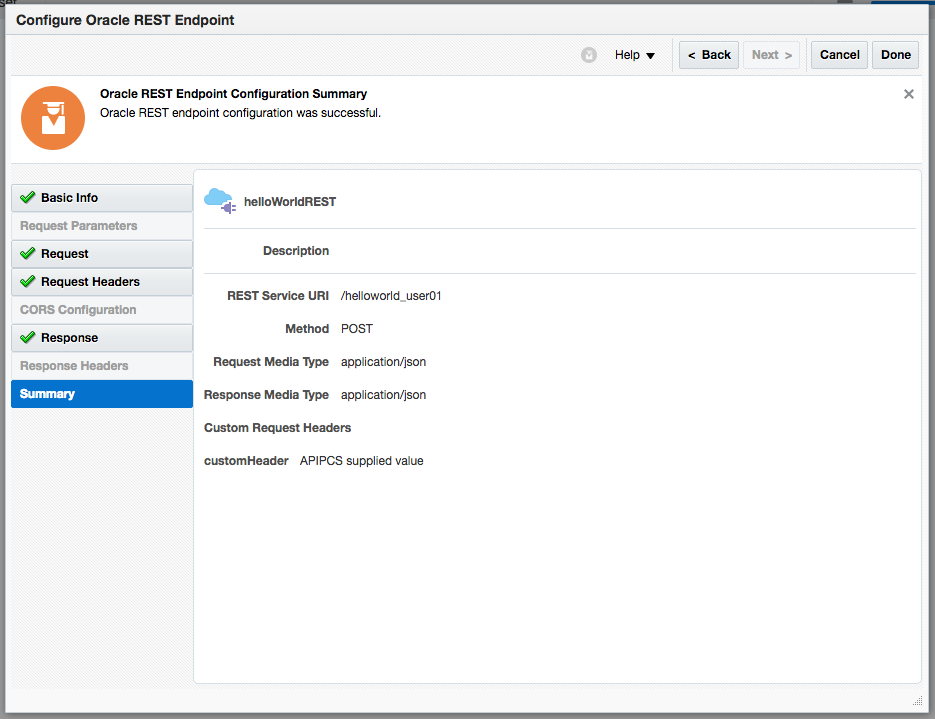
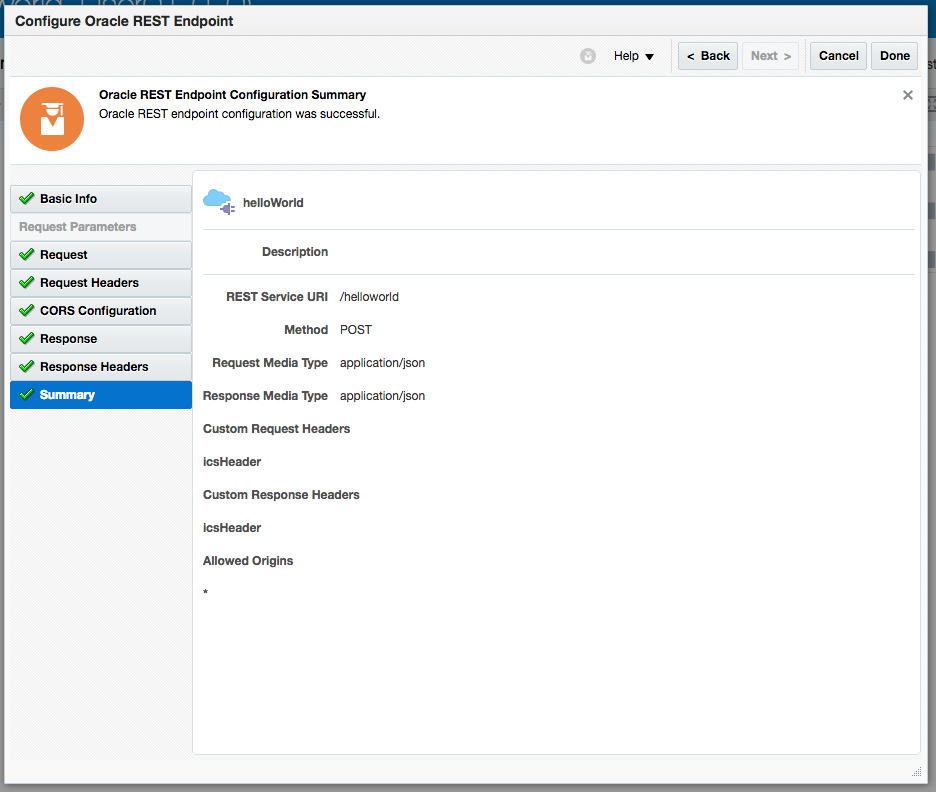
Completed lab 100

Changed region(s): [[0.0, 0.0, 1.0, 1.0], [0.2171, 0.7038, 0.3102, 0.7344]]

diff --git a/workshops/ttc-apipcs-ics-workshop/ics100.md b/workshops/ttc-apipcs-ics-workshop/ics100.md
@@ -208,7 +208,7 @@ As you can see that there is not much you can configure, apart from the owner's 
 - **Click** on `Next >` to move to the `Request Header` step 
 
 - On the `Request Header` we are going to add a `customHeader` which we are going to populate from APIPCS.
-    - Add a header, called `customHeader` and give it a description `APIPCS supplied value`
+    - Add a header, called `icsHeader` and give it a description `APIPCS supplied value`
 
     ![](images/100/image020.png)
 
@@ -236,6 +236,12 @@ As you can see that there is not much you can configure, apart from the owner's 
 
 - **Click** `OK` to return to `Configure the Response Payload` wizard
 
+- **Click** on `Next >` to move to `Response Headers Configuration` Wizard
+
+- Add a header for our response `icsHeader`
+
+    ![](images/100/image025.png)
+
 - **Click** on `Next >` to move to the `Summary` page
 
     ![](images/100/image023.png)
@@ -249,3 +255,88 @@ As you can see that there is not much you can configure, apart from the owner's 
 ### **1.3.4** Configuring Mapping
 
 ---
+
+The next step is to configure the mapping, ie. matching the input to the output of the `HelloWorld` call.
+
+- **Click** on the map and then **click** on the `pencil` icon to edit mapping
+
+    ![](images/100/image026.png)
+
+- Do the mapping by dragging the ` greeting` field on the left hand side to the `greeting` field on the right hand side, as illustrated by the following picture:
+
+    ![](images/100/image027.png)
+
+- Next step is to extend the `icsHeader` mapping to include a marker that the header was changed by ICS.
+
+    - On the target side click on `icsHeader`
+
+        ![](images/100/image028.png)
+
+    You will see the following screen:
+
+    ![](images/100/image029.png)
+
+    - Expand the `Mapping Components` on the `Source`, expand `Functions`, `String` and drag the `fx concat` to `-- Drag and Drop or Type value here...`
+
+        ![](images/100/image030.png)
+
+        - Replace `string2` with `"- ICS"`, by clicking on the field and changing the value
+        - Replace `string1` with `icsHeader`, by selecting the field from the source panel
+
+        ![](images/100/image031.png)
+
+    - **Click** on `Save` to save the mapping
+
+        ![](images/100/image032.png)
+
+    - **Click** on `Close` and `Apply` the `Map Action`
+
+        ![](images/100/image033.png)
+
+### **1.3.5** Configuring Tracking
+
+---
+
+Now we have to configure the tracking fields for the orchestration so that we can see what happened in the `Monitoring` tools.
+
+- Back in the orchestration editor, **Click** on the `hamburger` menu on the right hand-side, and select `Tracking`
+
+    ![](images/100/image034.png)
+
+- Drag and drop `greetings` to `Primary Tracking Field`
+
+    ![](images/100/image035.png)
+
+- **Click** `Done` to complete tracking
+
+- **Click** on `Save` to close the `Orchestration Editor`
+
+
+### **1.3.6** DEploying and Publishing Integration
+
+---
+
+Back on the `Integrations` page, we are now going to activate and publish our `HelloWorld` integrations
+
+- **Click** on your Inegration's context menu in the right hand side of your integration, and **click** on `Activate`:
+
+    ![](images/100/image036.png)
+
+- Make sure to select `Enable Tracking` and click on `Activate and Publish`
+
+    ![](images/100/image037.png)
+
+- After a couple of moments, the `Manage API with APIP CS` wizard will appear. 
+
+    - API Name `HelloWorldUserXX`
+    - Version `1.0`
+    - API Endpoint URL `/helloworlduserXX`
+    - API Description `ICS REST Service published to APIP CS`
+    - `Publish API` **selected**
+    - API Portal URL `helloworlduserXX`
+
+    ![](images/100/image038.png)
+
+- **Click** on `Create` to publish our service to APIP CS.
+
+## Completion of LAB 100
